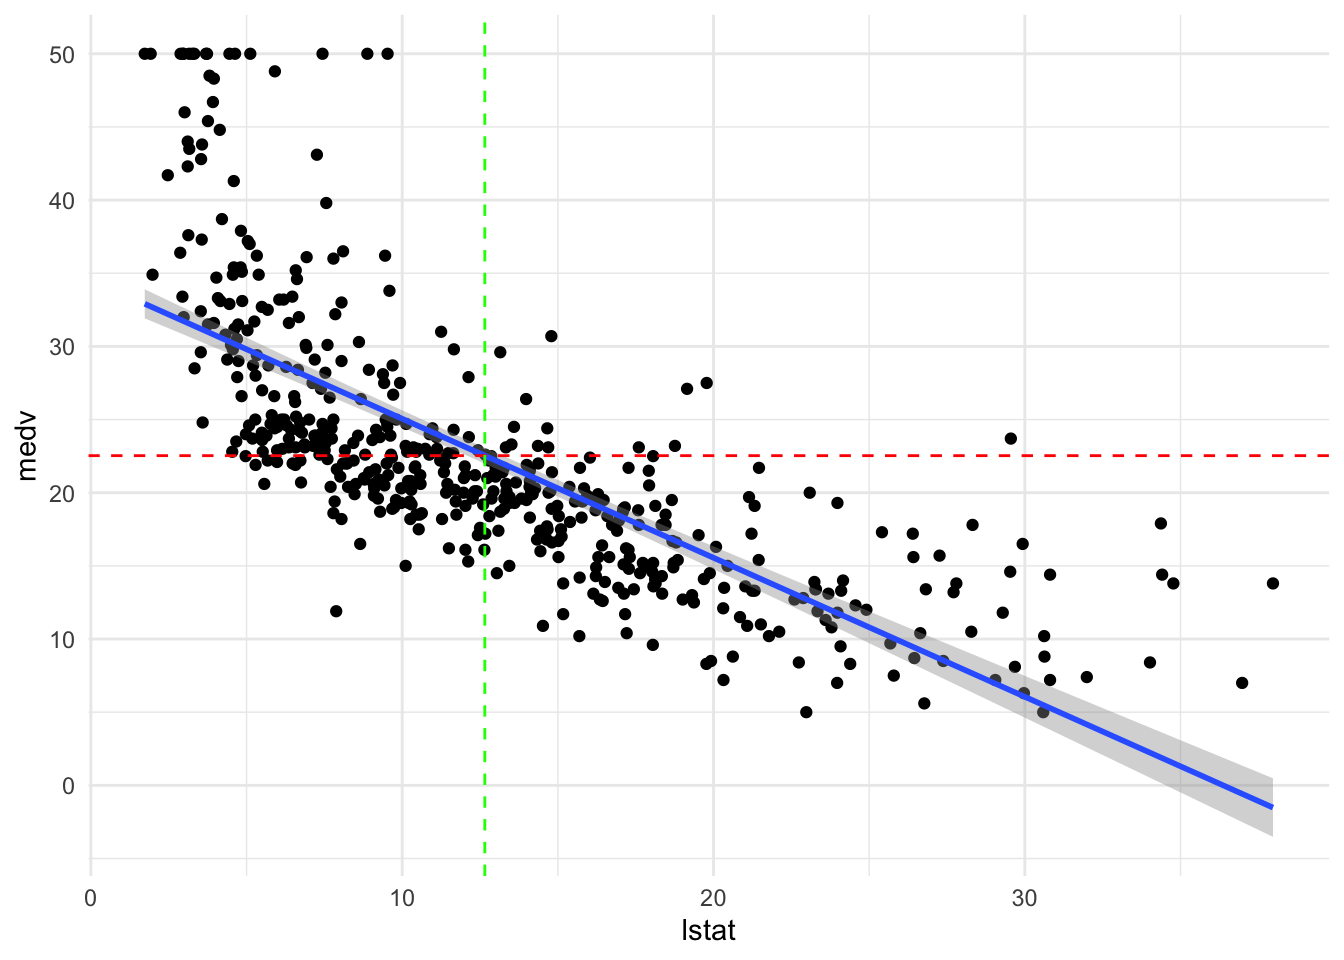
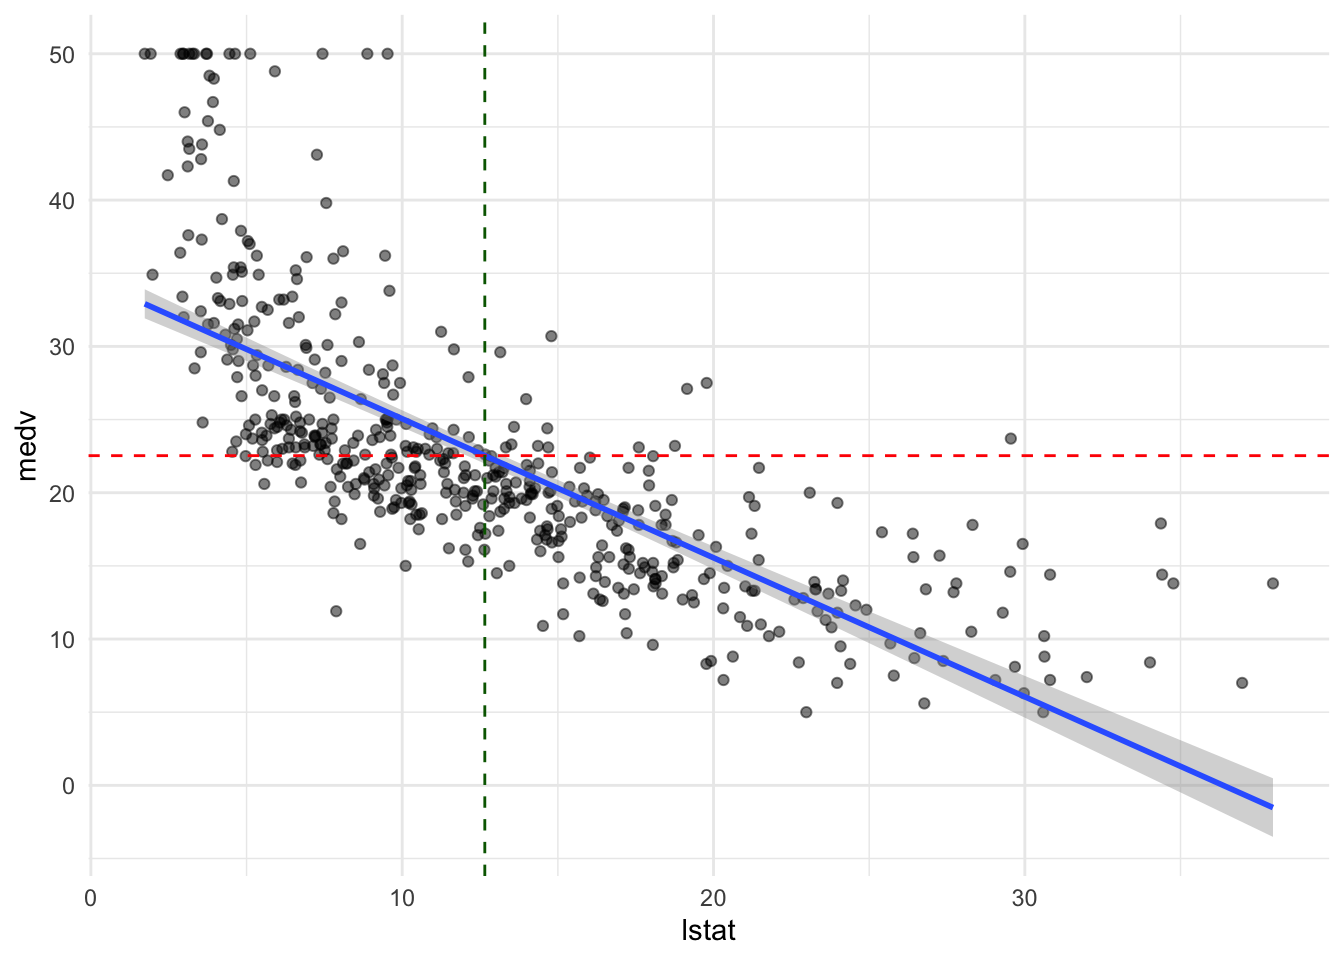
build

diff --git a/docs/simple-linear-regression.html b/docs/simple-linear-regression.html
@@ -164,7 +164,7 @@ div.csl-indent {
 <li><a href="./">797ML Handbook</a></li>
 
 <li class="divider"></li>
-<li class="chapter" data-level="1" data-path="index.html"><a href="index.html"><i class="fa fa-check"></i><b>1</b> About<span></span></a>
+<li class="chapter" data-level="1" data-path="index.html"><a href="index.html"><i class="fa fa-check"></i><b>1</b> url: your book url like <span>https://bookdown.org/yihui/bookdown</span><span></span></a>
 <ul>
 <li class="chapter" data-level="1.1" data-path="index.html"><a href="index.html#authoring-guidelines"><i class="fa fa-check"></i><b>1.1</b> Authoring guidelines<span></span></a></li>
 <li class="chapter" data-level="1.2" data-path="index.html"><a href="index.html#resources"><i class="fa fa-check"></i><b>1.2</b> Resources<span></span></a></li>
@@ -452,7 +452,7 @@ Figure 2.1: Simple linear regression plot (source: <a href="https://www.statlear
 <div class="sourceCode" id="cb1"><pre class="sourceCode r"><code class="sourceCode r"><span id="cb1-1"><a href="simple-linear-regression.html#cb1-1" aria-hidden="true" tabindex="-1"></a>lm.fit <span class="ot">&lt;-</span> <span class="fu">lm</span>(medv <span class="sc">~</span> lstat, <span class="at">data =</span> Boston)</span>
 <span id="cb1-2"><a href="simple-linear-regression.html#cb1-2" aria-hidden="true" tabindex="-1"></a><span class="fu">plot</span>(Boston<span class="sc">$</span>lstat, Boston<span class="sc">$</span>medv)</span>
 <span id="cb1-3"><a href="simple-linear-regression.html#cb1-3" aria-hidden="true" tabindex="-1"></a><span class="fu">abline</span>(lm.fit, <span class="at">lwd =</span> <span class="dv">3</span>, <span class="at">col =</span> <span class="st">&quot;red&quot;</span>)</span></code></pre></div>
-<p><img src="_main_files/figure-html/unnamed-chunk-3-1.png" width="672" /></p>
+<p><img src="_main_files/figure-html/unnamed-chunk-2-1.png" width="672" /></p>
 <p>The results of the regression are stored in the output of <code>lm()</code>, and may be viewed with <code>summary()</code>:</p>
 <div class="sourceCode" id="cb2"><pre class="sourceCode r"><code class="sourceCode r"><span id="cb2-1"><a href="simple-linear-regression.html#cb2-1" aria-hidden="true" tabindex="-1"></a><span class="fu">summary</span>(lm.fit)</span></code></pre></div>
 <pre><code>## 
@@ -500,13 +500,13 @@ Substituting the coefficients and variables, we transform this to:</p>
 <h2><span class="header-section-number">2.7</span> Notes<a href="simple-linear-regression.html#notes" class="anchor-section" aria-label="Anchor link to header"></a></h2>
 <p>You can also do a scatterplot in ggplot2 and add a regression line with <code>geom_smooth()</code>; it doesn’t show the coefficients or other output information, but it gives a quick visual that’s a little prettier than the base R plot:</p>
 <div class="sourceCode" id="cb4"><pre class="sourceCode r"><code class="sourceCode r"><span id="cb4-1"><a href="simple-linear-regression.html#cb4-1" aria-hidden="true" tabindex="-1"></a><span class="fu">ggplot</span>(<span class="at">data =</span> Boston, <span class="fu">aes</span>(<span class="at">x =</span> lstat, <span class="at">y =</span> medv)) <span class="sc">+</span></span>
-<span id="cb4-2"><a href="simple-linear-regression.html#cb4-2" aria-hidden="true" tabindex="-1"></a>  <span class="fu">geom_point</span>() <span class="sc">+</span></span>
+<span id="cb4-2"><a href="simple-linear-regression.html#cb4-2" aria-hidden="true" tabindex="-1"></a>  <span class="fu">geom_point</span>(<span class="at">alpha =</span> <span class="fl">0.5</span>) <span class="sc">+</span></span>
 <span id="cb4-3"><a href="simple-linear-regression.html#cb4-3" aria-hidden="true" tabindex="-1"></a>  <span class="fu">geom_smooth</span>(<span class="at">method =</span> <span class="st">&quot;lm&quot;</span>, <span class="at">formula =</span> y <span class="sc">~</span> x) <span class="sc">+</span></span>
 <span id="cb4-4"><a href="simple-linear-regression.html#cb4-4" aria-hidden="true" tabindex="-1"></a>  <span class="fu">geom_hline</span>(<span class="at">yintercept =</span> <span class="fu">mean</span>(Boston<span class="sc">$</span>medv), <span class="at">linetype =</span> <span class="st">&quot;dashed&quot;</span>, <span class="at">color =</span> <span class="st">&quot;red&quot;</span>) <span class="sc">+</span></span>
-<span id="cb4-5"><a href="simple-linear-regression.html#cb4-5" aria-hidden="true" tabindex="-1"></a>  <span class="fu">geom_vline</span>(<span class="at">xintercept =</span> <span class="fu">mean</span>(Boston<span class="sc">$</span>lstat), <span class="at">linetype =</span> <span class="st">&quot;dashed&quot;</span>, <span class="at">color =</span> <span class="st">&quot;green&quot;</span>) <span class="sc">+</span></span>
+<span id="cb4-5"><a href="simple-linear-regression.html#cb4-5" aria-hidden="true" tabindex="-1"></a>  <span class="fu">geom_vline</span>(<span class="at">xintercept =</span> <span class="fu">mean</span>(Boston<span class="sc">$</span>lstat), <span class="at">linetype =</span> <span class="st">&quot;dashed&quot;</span>, <span class="at">color =</span> <span class="st">&quot;darkgreen&quot;</span>) <span class="sc">+</span></span>
 <span id="cb4-6"><a href="simple-linear-regression.html#cb4-6" aria-hidden="true" tabindex="-1"></a>  <span class="fu">theme_minimal</span>()</span></code></pre></div>
-<p><img src="_main_files/figure-html/unnamed-chunk-5-1.png" width="672" /></p>
-<p>The means of lstat and medv are shown with dashed red and green lines, showing that the regression line always goes through the center of the data.</p>
+<p><img src="_main_files/figure-html/unnamed-chunk-4-1.png" width="672" /></p>
+<p>The means of <code>lstat</code> and <code>medv</code> are shown with dashed red and green lines, showing that the regression line goes through the center of the data.</p>
 
 </div>
 </div>

diff --git a/docs/404.html b/docs/404.html
@@ -164,7 +164,7 @@ div.csl-indent {
 <li><a href="./">797ML Handbook</a></li>
 
 <li class="divider"></li>
-<li class="chapter" data-level="1" data-path="index.html"><a href="index.html"><i class="fa fa-check"></i><b>1</b> About<span></span></a>
+<li class="chapter" data-level="1" data-path="index.html"><a href="index.html"><i class="fa fa-check"></i><b>1</b> url: your book url like <span>https://bookdown.org/yihui/bookdown</span><span></span></a>
 <ul>
 <li class="chapter" data-level="1.1" data-path="index.html"><a href="index.html#authoring-guidelines"><i class="fa fa-check"></i><b>1.1</b> Authoring guidelines<span></span></a></li>
 <li class="chapter" data-level="1.2" data-path="index.html"><a href="index.html#resources"><i class="fa fa-check"></i><b>1.2</b> Resources<span></span></a></li>
